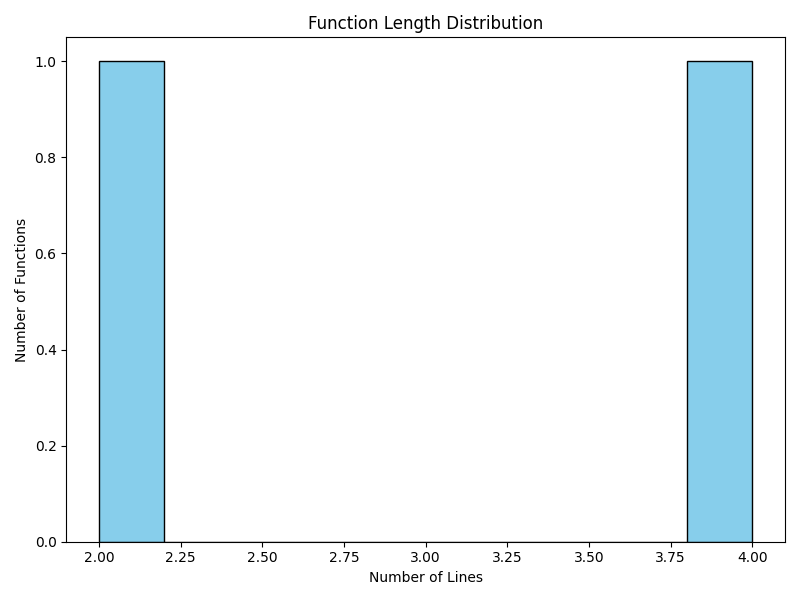
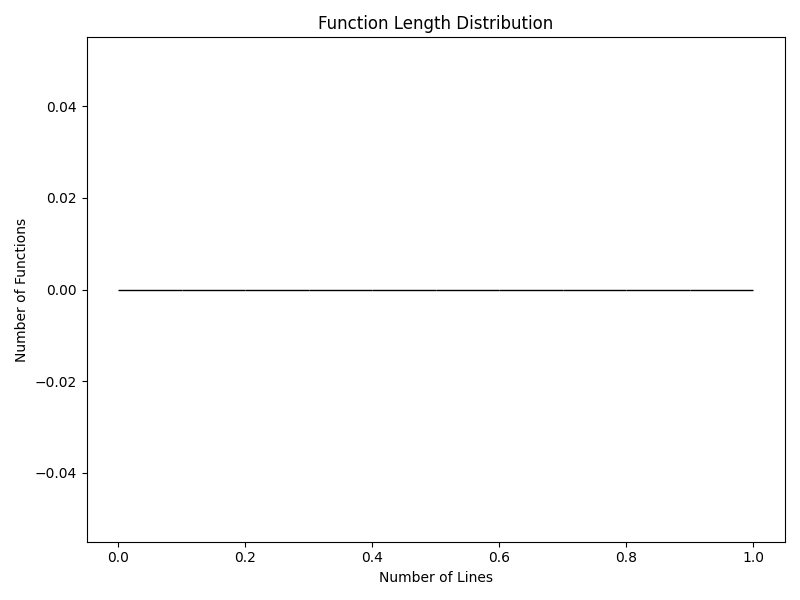
finish project

diff --git a/Main.py b/Main.py
@@ -1,14 +1,28 @@
 import ast
-
-from fastapi import FastAPI,File,UploadFile
-from Diagram import get_function_lengths,generate_histogram,generate_pie_chart,count_of_problems,generate_bar_chart,collect_all_warnings
-
-from anslyze import analyze_code
+from fastapi import FastAPI, File, UploadFile, HTTPException
 from fastapi.responses import FileResponse
 from fastapi.staticfiles import StaticFiles
 from typing import List
+from Diagram import (
+    get_function_lengths,
+    generate_histogram,
+    generate_pie_chart,
+    generate_bar_chart,
+    count_of_problems,
+    collect_all_warnings
+)
+from anslyze import analyze_code
+
+import os
 
 app = FastAPI()
+app.mount("/static", StaticFiles(directory="static"), name="static")
+
+# סיומות מותרים (ניתנים להרחבה)
+ALLOWED_EXTENSIONS = {".py", ".js", ".java", ".c", ".cpp", ".cs"}
+
+def is_code_file(filename: str) -> bool:
+    return any(filename.endswith(ext) for ext in ALLOWED_EXTENSIONS)
 
 @app.post("/analyze")
 async def analyze(files: List[UploadFile] = File(...)):
@@ -16,21 +30,31 @@ async def analyze(files: List[UploadFile] = File(...)):
     filenames = []
 
     for file in files:
-        content = (await file.read()).decode("utf-8")
+        if not is_code_file(file.filename):
+            raise HTTPException(status_code=400, detail=f"❌ הקובץ {file.filename} אינו קובץ קוד נתמך.")
+        try:
+            content = (await file.read()).decode("utf-8")
+        except UnicodeDecodeError:
+            raise HTTPException(status_code=400, detail=f"❌ הקובץ {file.filename} אינו קובץ טקסט קריא.")
         file_contents.append(content)
         filenames.append(file.filename)
 
-
+    # גרף עמודות לכל הקבצים
     problems_per_file = count_of_problems(file_contents, filenames)
-
-
     generate_bar_chart(problems_per_file, "static/issues_bar.png")
 
+    # גרף היסטוגרמה רק אם קובץ ראשון הוא פייתון
+    try:
+        if filenames[0].endswith(".py"):
+            tree = ast.parse(file_contents[0])
+            length = get_function_lengths(tree)
+            generate_histogram(length, "static/histogram.png")
+        else:
+            generate_histogram([], "static/histogram.png")  # גרף ריק
+    except Exception:
+        generate_histogram([], "static/histogram.png")  # גרף ריק אם יש שגיאה
 
-
-    tree = ast.parse(file_contents[0])
-    length = get_function_lengths(tree)
-    generate_histogram(length, "static/histogram.png")
+    # תרשים עוגה לכל הקבצים
     all_warnings = collect_all_warnings(file_contents)
     generate_pie_chart(all_warnings, "static/issues_pie.png")
 
@@ -38,20 +62,18 @@ async def analyze(files: List[UploadFile] = File(...)):
         "histogram": "/static/histogram.png",
         "pie_chart": "/static/issues_pie.png",
         "bar_chart": "/static/issues_bar.png",
-        "warnings": warnings,
+        "warnings": all_warnings,
         "file_warnings_count": problems_per_file
     }
-
 
 @app.post("/alerts")
 async def analyze_file(file: UploadFile = File(...)):
     try:
+        if not is_code_file(file.filename):
+            raise HTTPException(status_code=400, detail="❌ הקובץ שהועלה אינו קובץ קוד נתמך.")
+            print("אחד הקבצים אינו קובץ קוד")
         source_code = (await file.read()).decode("utf-8")
         warnings = analyze_code(source_code)
         return {"warnings": warnings}
     except Exception as e:
-        return {"error": str(e)}
-
-app.mount("/static", StaticFiles(directory="static"), name="static")
-
-
+        return {"error": f"שגיאה בניתוח הקובץ: {str(e)}"}
